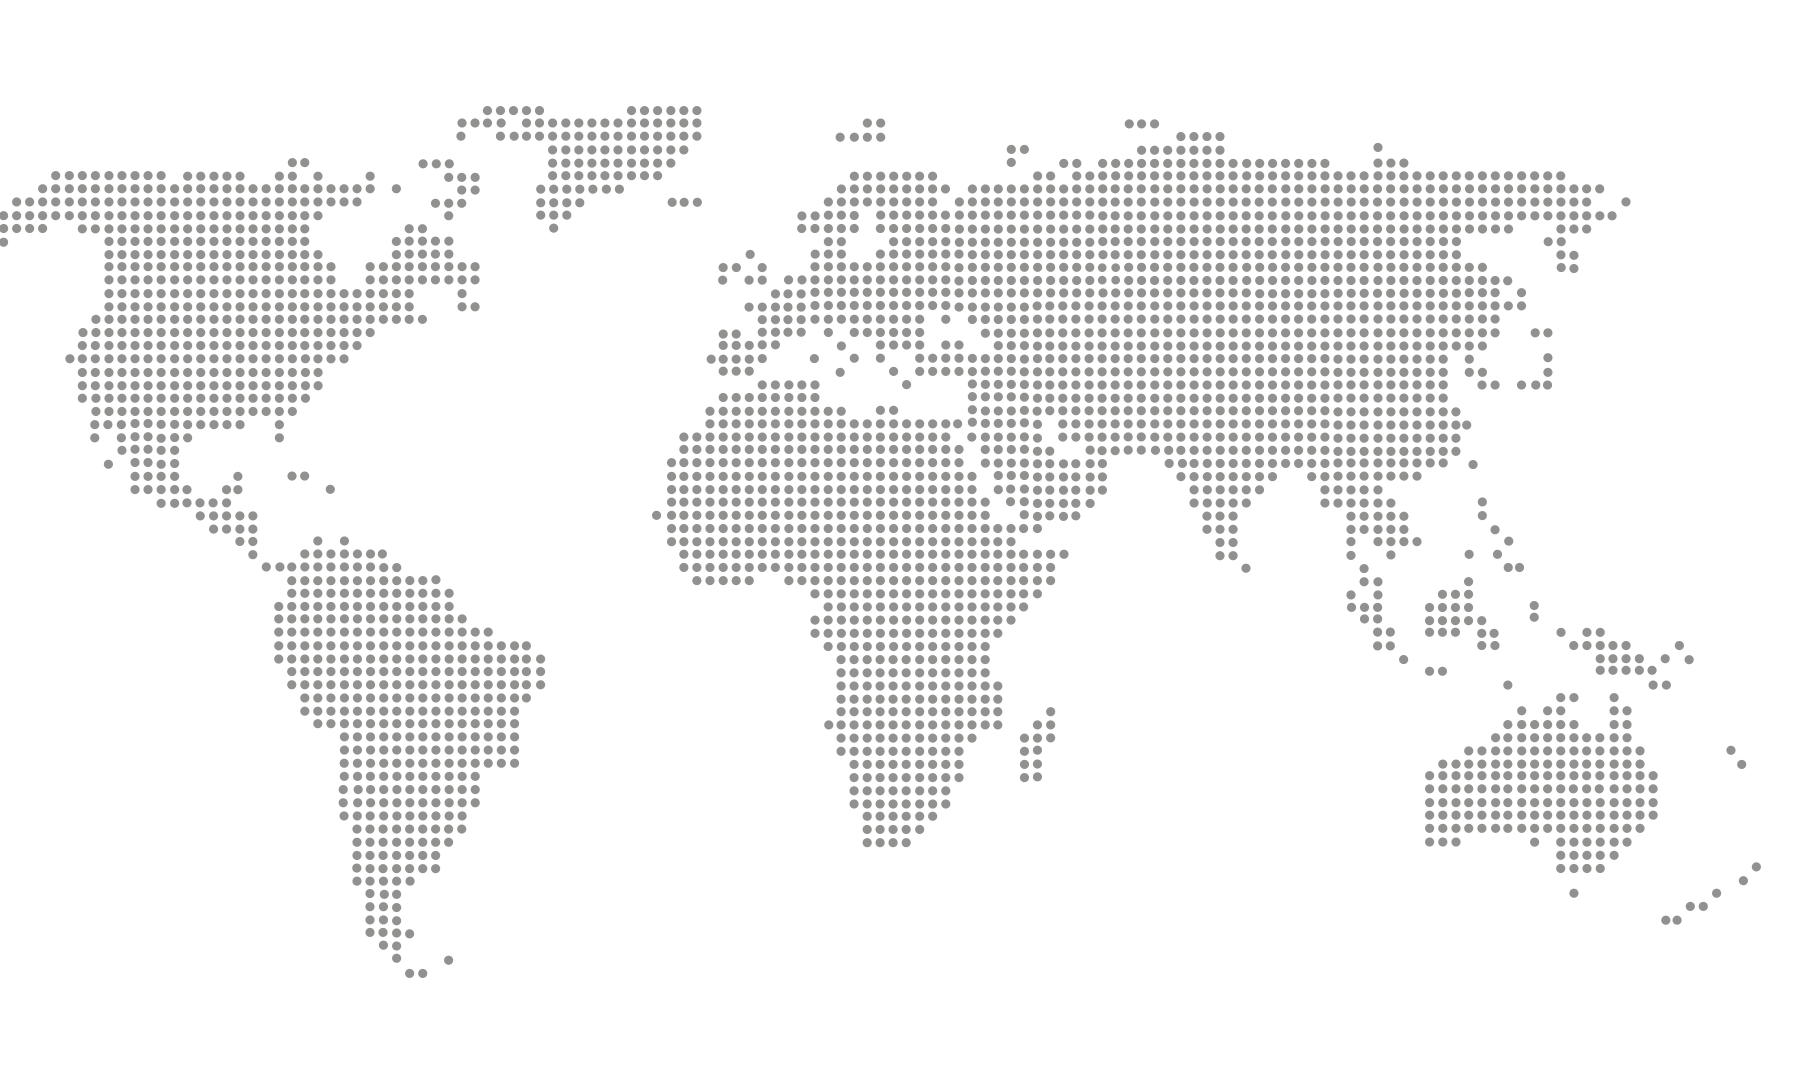
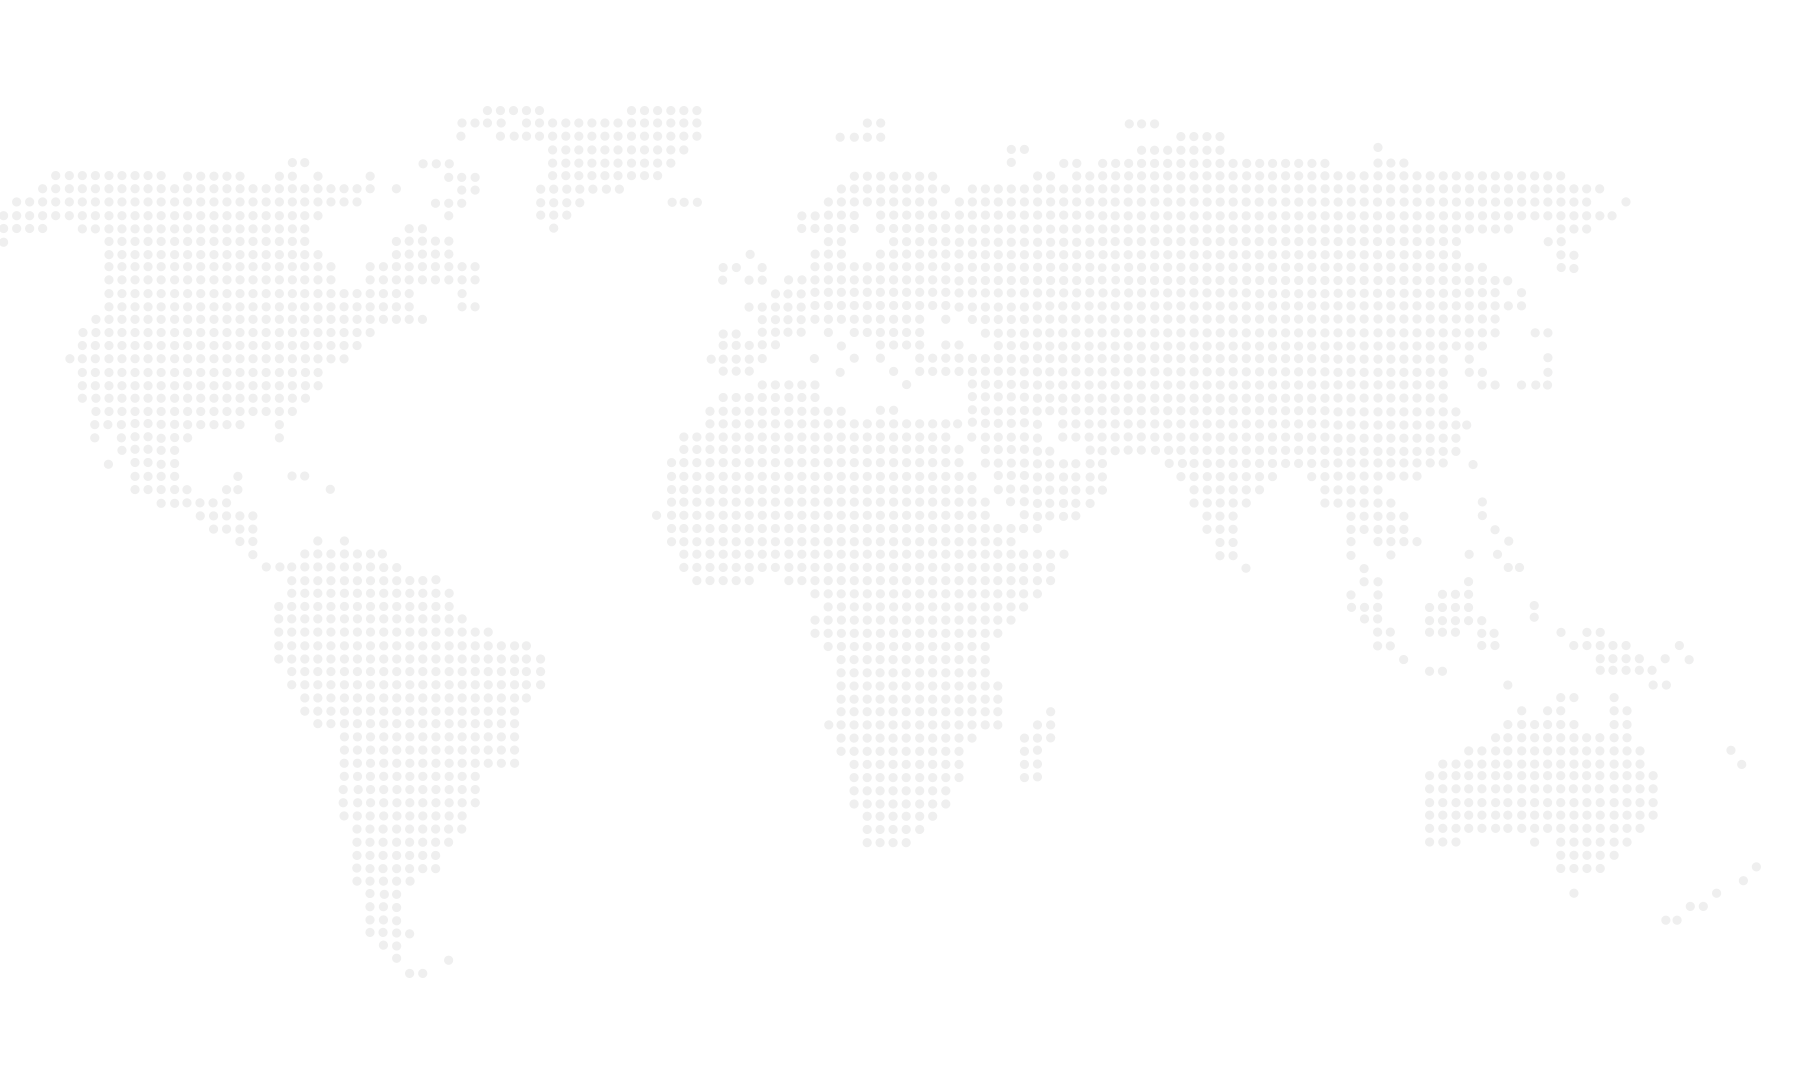
Adicionado mapa certo

diff --git a/index.html b/index.html
@@ -78,7 +78,7 @@
       </div>
     </div>
 
-    <div class="container-fluid mb-5 p-1 p-md-4 text-light fundo">
+    <div class="container-fluid p-1 p-md-4 text-light fundo">
       <div class="row mt-5">
         <div class="col-12">
           <div class="fundo-comportamento">
@@ -99,23 +99,26 @@
       </div>
     </div>
 
-    <div class="container mb-5">
-      <div class="row p-4 p-md-1">
-        <div class="col-12 col-md-6">
-          <h3 class="fw-bold mb-3" id="unidades">Confira nossas unidades</h3>
-          <div class="row mb-3">
-            <div class="col">
-              <button class="btn btn-azul">Pernambuco</button>
+    <div class="background-confira-unidades pt-3">
+      <div class="container mb-2">
+        <div class="row p-4 p-md-1">
+          <div class="col-12 col-md-6">
+            <h3 class="fw-bold mb-3" id="unidades">Confira nossas unidades</h3>
+            <div class="row mb-3">
+              <div class="col">
+                <button class="btn btn-azul">Pernambuco</button>
+              </div>
             </div>
+            <h4 class="fw-bold">Pam pneus</h4>
+            <p>
+              <li><a href="segunda-tela/segunda-tela.html">Filiais</a></li>
+            </p>
           </div>
-          <h4 class="fw-bold">Pam pneus</h4>
-          <p>
-            <li><a href="segunda-tela/segunda-tela.html">Filiais</a></li>
-          </p>
+          <div class="col-12 col-md-6"></div>
         </div>
-        <div class="col-12 col-md-6"></div>
       </div>
     </div>
+    
 
     <div class="container-fluid text-light p-md-1 p-4 fundo-footer">
       <div class="row mb-5">
@@ -136,8 +139,9 @@
       <div class="row justify-content-center mt-3">
         <div class="col-12 col-md-8">
           <div class="cards">
-            <div class="card"></div>
-            <div class="card"></div>
+            <div class="card">
+              <img src="assets/images/whatsapp-preto-baixo.png" alt="">
+            </div>
             <div class="card"></div>
             <div class="card"></div>
           </div>

diff --git a/segunda-tela/segunda-tela.html b/segunda-tela/segunda-tela.html
@@ -287,8 +287,8 @@
           >
             <h6 class="text-uppercase">Fale conosco</h6>
             <ul class="options-footer text-center text-md-start">
-              <li><a href="">(00)0000-0000</a></li>
-              <li><a href="">Albuergue@atendimento.com</a></li>
+              <li>(00)0000-0000</li>
+              <li>Albuergue@atendimento.com</li>
             </ul>
           </div>
           <div

diff --git a/styles.css b/styles.css
@@ -60,6 +60,14 @@ body {
   background-repeat: no-repeat;
 }
 
+.background-confira-unidades {
+  background: url("assets/images/mapa-pontos.png");
+  background-size: cover;
+  background-position: center;
+  background-repeat: no-repeat;
+  height: 400px;
+}
+
 .cards {
   display: flex;
   align-items: center;
